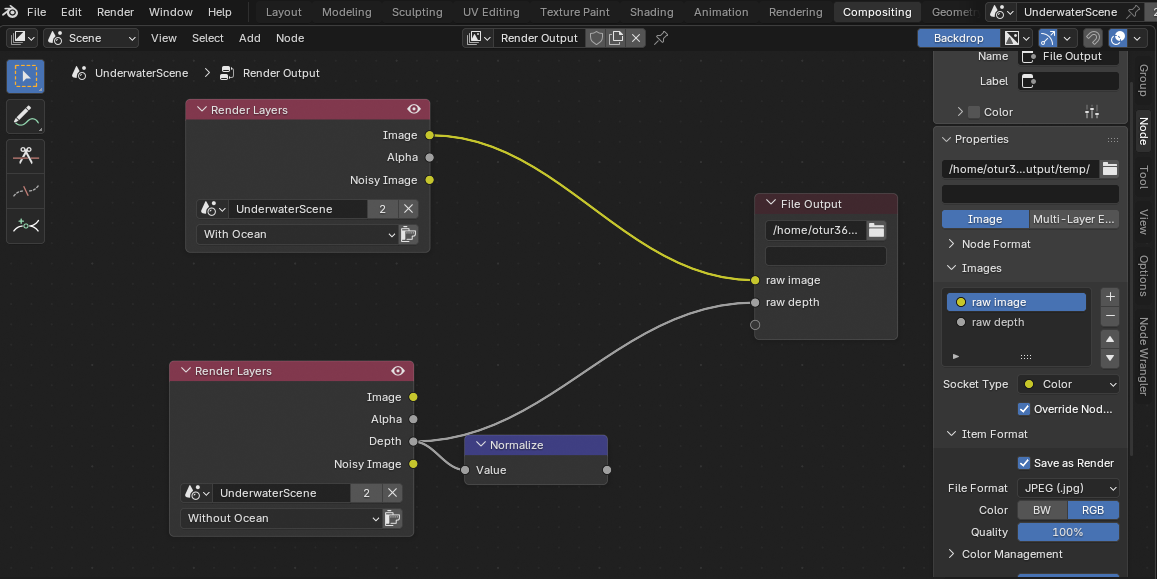
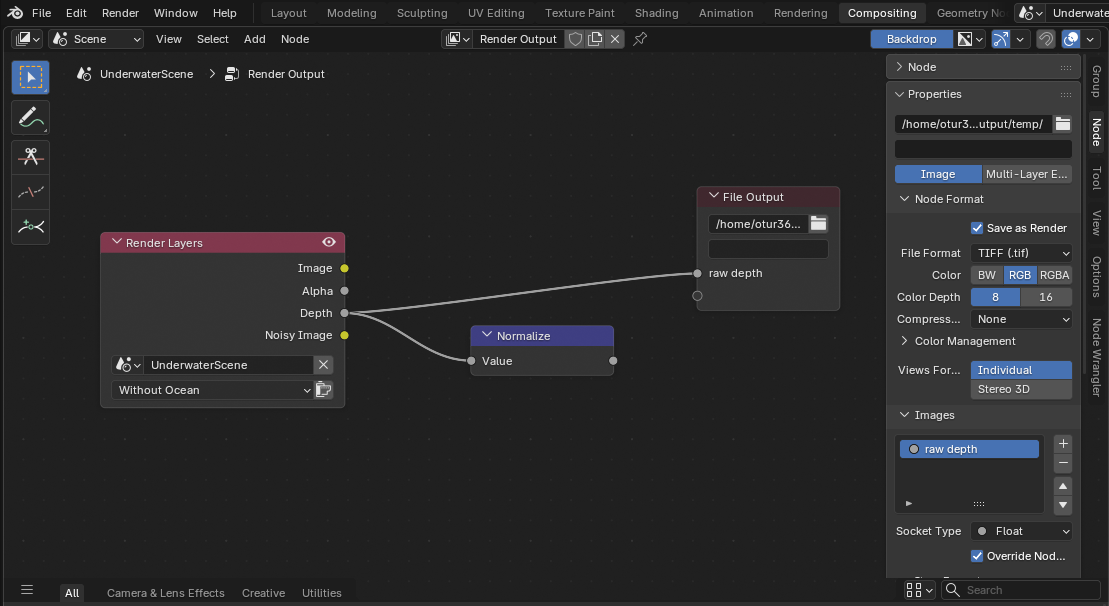
Fixing up exporting blender tutorial after replacing global render with raw image

diff --git a/scripts/blender/render_animation.py b/scripts/blender/render_animation.py
@@ -11,8 +11,9 @@
 #         --python /home/otur3695/Documents/Simulated-Underwater-Depth-Dataset-Generation/scripts/blender/render_animation.py
 
 # From inside folder with script: 
-# blender -b /home/otur3695/Documents/Blender/<file_name>.blend --python render_animation.py
+# blender -b /home/otur3695/Documents/Blender/underwater_scene.blend --python render_animation.py
 
+# blender -b blender/underwater_scene.blend --python scripts/blender/render_animation.py
 
 
 # --- TO DO ---
@@ -32,18 +33,15 @@ import os
 # Define scene
 scene = bpy.context.scene
 
-# Save the global renders to a folder to then delete at the end - no option to disable this yet in Blender (see 'Known Issues in README)
-# Other renders (raw image, raw depth) have their output path encoded in Compositing tab in Blender
-# output_path = os.path.expanduser("/home/otur3695/Documents/Blender/results/blender_output/delete_global/")
-output_path = os.path.expanduser("results/blender_output/temp/delete_global/")
-
+# Define render output path (already in .blend file but for backup, also can override if desired)
+output_path = os.path.expanduser("results/blender_output/temp/")
 
 # Set render output
 scene.render.filepath = output_path
 
 # Set frame range (limit for demos)
 scene.frame_start = 1
-scene.frame_end = 240
+scene.frame_end = 1
 
 # Render animation
 bpy.ops.render.render(animation=True)

diff --git a/scripts/blender/generate_sample_dataset.py b/scripts/blender/generate_sample_dataset.py
@@ -30,7 +30,9 @@
 # Then add a layer to iterate over depths 
 
 
-
+# TO DO: 
+# Delete the delte_global
+# Use spotlights for clear and murky conditions 
 
 
 # CAMERAS + LIGHTS + DEPTH + WATER + ARRANGEMENTS

diff --git a/tutorials/exporting_blender.md b/tutorials/exporting_blender.md
@@ -1,7 +1,7 @@
 # TUTORIAL
 
 TO DO: 
-change if getting rid of global render and replacing with raw image (won't need delete_global) 
+debugging - CHANGE TO BASH SCRIPT NAMES 
 
 ## Exporting in Blender
 
@@ -12,94 +12,123 @@ This tutorial explains the Blender render setup and changes the location the ren
 The .blend file has two render output channels - the standard, global render and the custom render from the Compositing Nodes. 
 
 
-The global render is an image of the scene and colour corrected by the inputted settings. Its settings are in Output Properties in the Control Panel tab (bottom right). 
+The global render is an image of the scene. Its settings are in Output Properties in the Control Panel tab (bottom right). This is where raw image is generated.
 
 
-The Compositing node diagram allows for more control over the renders, including different file types, the data included and the number of renders. This is where raw image and raw depth are generated.
+The Compositing node diagram allows for more control over the renders, including different file types, the data included and the number of renders. Compositing in Blender is intended for intermediary, or differently layered renders. This is where raw depth is generated.
 
 
-Note that screenshots are provided in 'Instructions'. 
+Note that screenshots are provided in Instructions. 
 
 
 
 ### Initial Configuration
 
-The .blend file is currently configured to save the global render into "results/blender_output/temp/delete_global/". The custom renders are saved to "results/blender_output/temp/".
+The .blend file is currently configured to save the raw image and raw depth renders into `results/blender_output/temp/`.
 
+The global render path can be overriden in Python but the Compositing Node render cannot. As a result, running the scripts and .blend files on a new machine will result in errors. The global renders will save correctly into the relative `results/blender_output/temp/` folder in the repo, but the Compositing Node will attempt to render to: `/home/otur3695/Documents/Simulated-Underwater-Depth-Dataset-Generation/results/blender_output/temp/`.
 
-Test this by running render_animation.py (with scene.frame_end = 1) or render_image.py, then navigating to these folders. You should expect this organisation:
+Therefore, follow the instructions to change the Compositing Render path to the `results/` folder on your machine before rendering.
 
-
-![alt text](images/test_export_path.png)
-
-
-The .gitignore will not push the results/ folder, as this will quickly get too large to push to git when generating a dataset. Save datasets to Hugging Face instead. You may also wish to change the location where the results are exported to (do so by following the 'Instructions'!).
-
+Also, the .gitignore will not push the `results/` folder, as this will quickly get too large to push to git when generating a dataset. Save datasets to Hugging Face instead.
 
 
 ### Instructions
 
-#### Global Render
+#### Global Render - Raw Image
 
 Change the global render output path by selecting the folder icon in this tab: 
 
 ![alt text](images/export_global.png)
 
+This may also be overridden in Python with:
 
-#### Compositing Render
+```
+# Define render output path
+output_path = os.path.expanduser("results/blender_output/temp/")
 
-Change the Compositing Node output path in this tab by again selecting the folder icon. Repeat for each output type - currently selected for raw image, so choose raw_depth then update its settings. 
+# Set render output
+scene.render.filepath = output_path
+```
+
+See `render_animation.py` or `render_image.py` as an example. 
+
+#### Compositing Render - Raw Depth
+
+Change the Compositing Node output path in this tab by again selecting the folder icon. If more output types are added, then repeat for each.
 
 
 ![alt text](images/export_compositing.png)
 
+Currently not sure how to override in Python. This is a point of improvement - see *Why use a temp folder?* in FAQs.
 
 
-### Debugging Tips
 
-Whenever Blender renders it prints the output file's location to the terminal that opened Blender. 
+### Testing Export 
 
 
-Run render_animation.py (with scene.frame_end = 1) or render_image.py to test rendering a single frame. Then check the terminal where the script ran to read directly where renders are outputted to. 
+<!-- CHANGE TO BASH SCRIPTS -->
+
+Test that exporting is working correctly by rendering a single frame - run `render_animation.py` (with scene.frame_end = 1) or `render_image.py`.  You should expect this organisation:
+
+ 
+![alt text](images/test_export_path.png)
+
+
+Then check the terminal to read directly where renders are outputted to. Whenever Blender renders it prints the output file's location to the terminal that opened Blender. You should expect a message similar to this in terminal, with file paths for your machine: 
+
+<pre>Blender 5.0.1 (hash a3db93c5b259 built 2025-12-16 01:30:59)
+00:01.618  blend            | Read blend: &quot;/home/otur3695/Documents/Simulated-Underwater-Depth-Dataset-Generation/blender/underwater_scene.blend&quot;
+00:41.476  render           | Saved: &apos;/home/otur3695/Documents/Simulated-Underwater-Depth-Dataset-Generation/results/blender_output/temp/raw depth0001_L.exr&apos;
+00:41.493  render           | Saved: &apos;/home/otur3695/Documents/Simulated-Underwater-Depth-Dataset-Generation/results/blender_output/temp/raw depth0001_R.exr&apos;
+00:41.529  render           | Saved: &apos;results/blender_output/temp/0001_L.jpg&apos;
+00:41.565  render           | Saved: &apos;results/blender_output/temp/0001_R.jpg&apos;
+Animation render complete
+
+Blender quit
+</pre>
 
 
 
 ### FAQs
 
-#### *Why use a delete_global folder?*
-
-Compositing in Blender is intended for intermediary, or differently layered, renders. Blender still outputs a final, complete render. For our dataset, we are not interested in this render (as it undergoes processes like colour correction) - we just want the raw image and raw depth. 
-
-
-However, it is not possible to disable the global render. This is a common issue faced by other Blender users (after researching in forums). 
-
-
-This setup is configured to save the undesired global renders into delete_global/. This folder is then automatically deleted in the dataset generation scripts - so after generating a dataset, the final outputs are just raw image and raw depth. It is not deleted in render_animation or render_image, so expect to see delete_global/ persist there. 
-
 
 #### *Why use a temp folder?*
 
-When generating a dataset, each set of frames for a configuration is saved in a nested folder structure to identify its characteristics e.g. Approach Camera/Jerlov/Arrangement 1/\<images\>.
+When generating a dataset, each set of frames for a configuration is saved in a nested folder structure to identify its characteristics e.g. `Approach Camera/Jerlov/Arrangement 1/<images>`.
 
-I struggled to automate this process in a Python script, where I expected to be able to index into and edit the Compositing Node outputs. So instead, I have left them to export into a temporary folder. Then, at the end of each pass, the files are moved from temp/ into their nested folder location. Using temp/ rather than the base blender_output/ prevents recursive copying. 
+I struggled to automate this process in a Python script, where I expected to be able to index into and edit the Compositing Node outputs. So instead, I have left them to export into a temporary folder. Then, at the end of each pass, the files are moved from `temp/` into their nested folder location. Using `temp/` rather than the base `blender_output/` prevents recursive copying. 
 
-
+If it is possible to override the Compositing Node output path in path, then the .blend could directly render into the desired location on each pass, rather than moving files each time. This would reduce overhead. 
 
 #### *Why is there a normalize node?*
 
-For inputting into the Neural Network for training, raw image and raw depth is required. Nornalising the depth values is unnecessary information for the model. However, it is very useful for visualisation. Compare the two pictures below. 
+For inputting into the neural network for training, raw image and raw depth is required. Normalising the depth values is unnecessary information for the model. However, it is very useful for visualisation. Compare the two pictures below. 
 
-<!-- ![alt text](images/raw_depth_example.png)
-
-![alt text](images/normalized_depth_example.png) -->
 
 | Raw depth | Normalised depth |
 |------------------------------|----------------------------------|
 | ![alt text](images/raw_depth_example.png) | ![alt text](images/normalized_depth_example.png) |
 
 
-
-
 When desired, connect the 'Normalize' node to the file output node and use the following settings. 
 
 ![alt text](images/normalized_depth_settings.png)
+
+
+
+#### *Can you disable global renders and export only from the Compositing Nodes?*
+
+My understanding is that it is not possible to disable the global render. This is a common issue faced by other Blender users (after researching in forums). 
+
+Hence, the .blend scene was corrected to output raw image from the global render, and raw depth from the Compositing Nodes. This removed an unnecessary, extra global render that had to be deleted on each run. 
+
+
+<!-- 
+Compositing in Blender is intended for intermediary, or differently layered, renders. Blender still outputs a final, complete render. For our dataset, we are not interested in this render (as it undergoes processes like colour correction) - we just want the raw image and raw depth. 
+
+
+However, it is not possible to disable the global render. This is a common issue faced by other Blender users (after researching in forums). 
+
+
+This setup is configured to save the undesired global renders into delete_global/. This folder is then automatically deleted in the dataset generation scripts - so after generating a dataset, the final outputs are just raw image and raw depth. It is not deleted in render_animation or render_image, so expect to see delete_global/ persist there.  -->

diff --git a/README.md b/README.md
@@ -15,6 +15,8 @@ Generation of simulated datasets containing raw image and raw depth of diverse u
 - Turn terminal commands into scripts
 - Sample dataset
 - Reference tutorials and recommended
+- scripts configured to read .blend file on my machine, you will need to change the paths to wherever you store the .blend scene after downloading from Hugging Face 
+- Also need to change the export paths in files 
 
 CURRENT SETUP: 
 Getting Started 
@@ -137,6 +139,8 @@ See 'demos/dataset_summary' to see example photo and videos for the above featur
 State number of things in a table? For diversity? - then number of combinations? 
 
 ### Size, Time
+
+Big factors in changing time is depth and water conditions 
 
 <!-- TODO -->
 <!-- put into table? -->